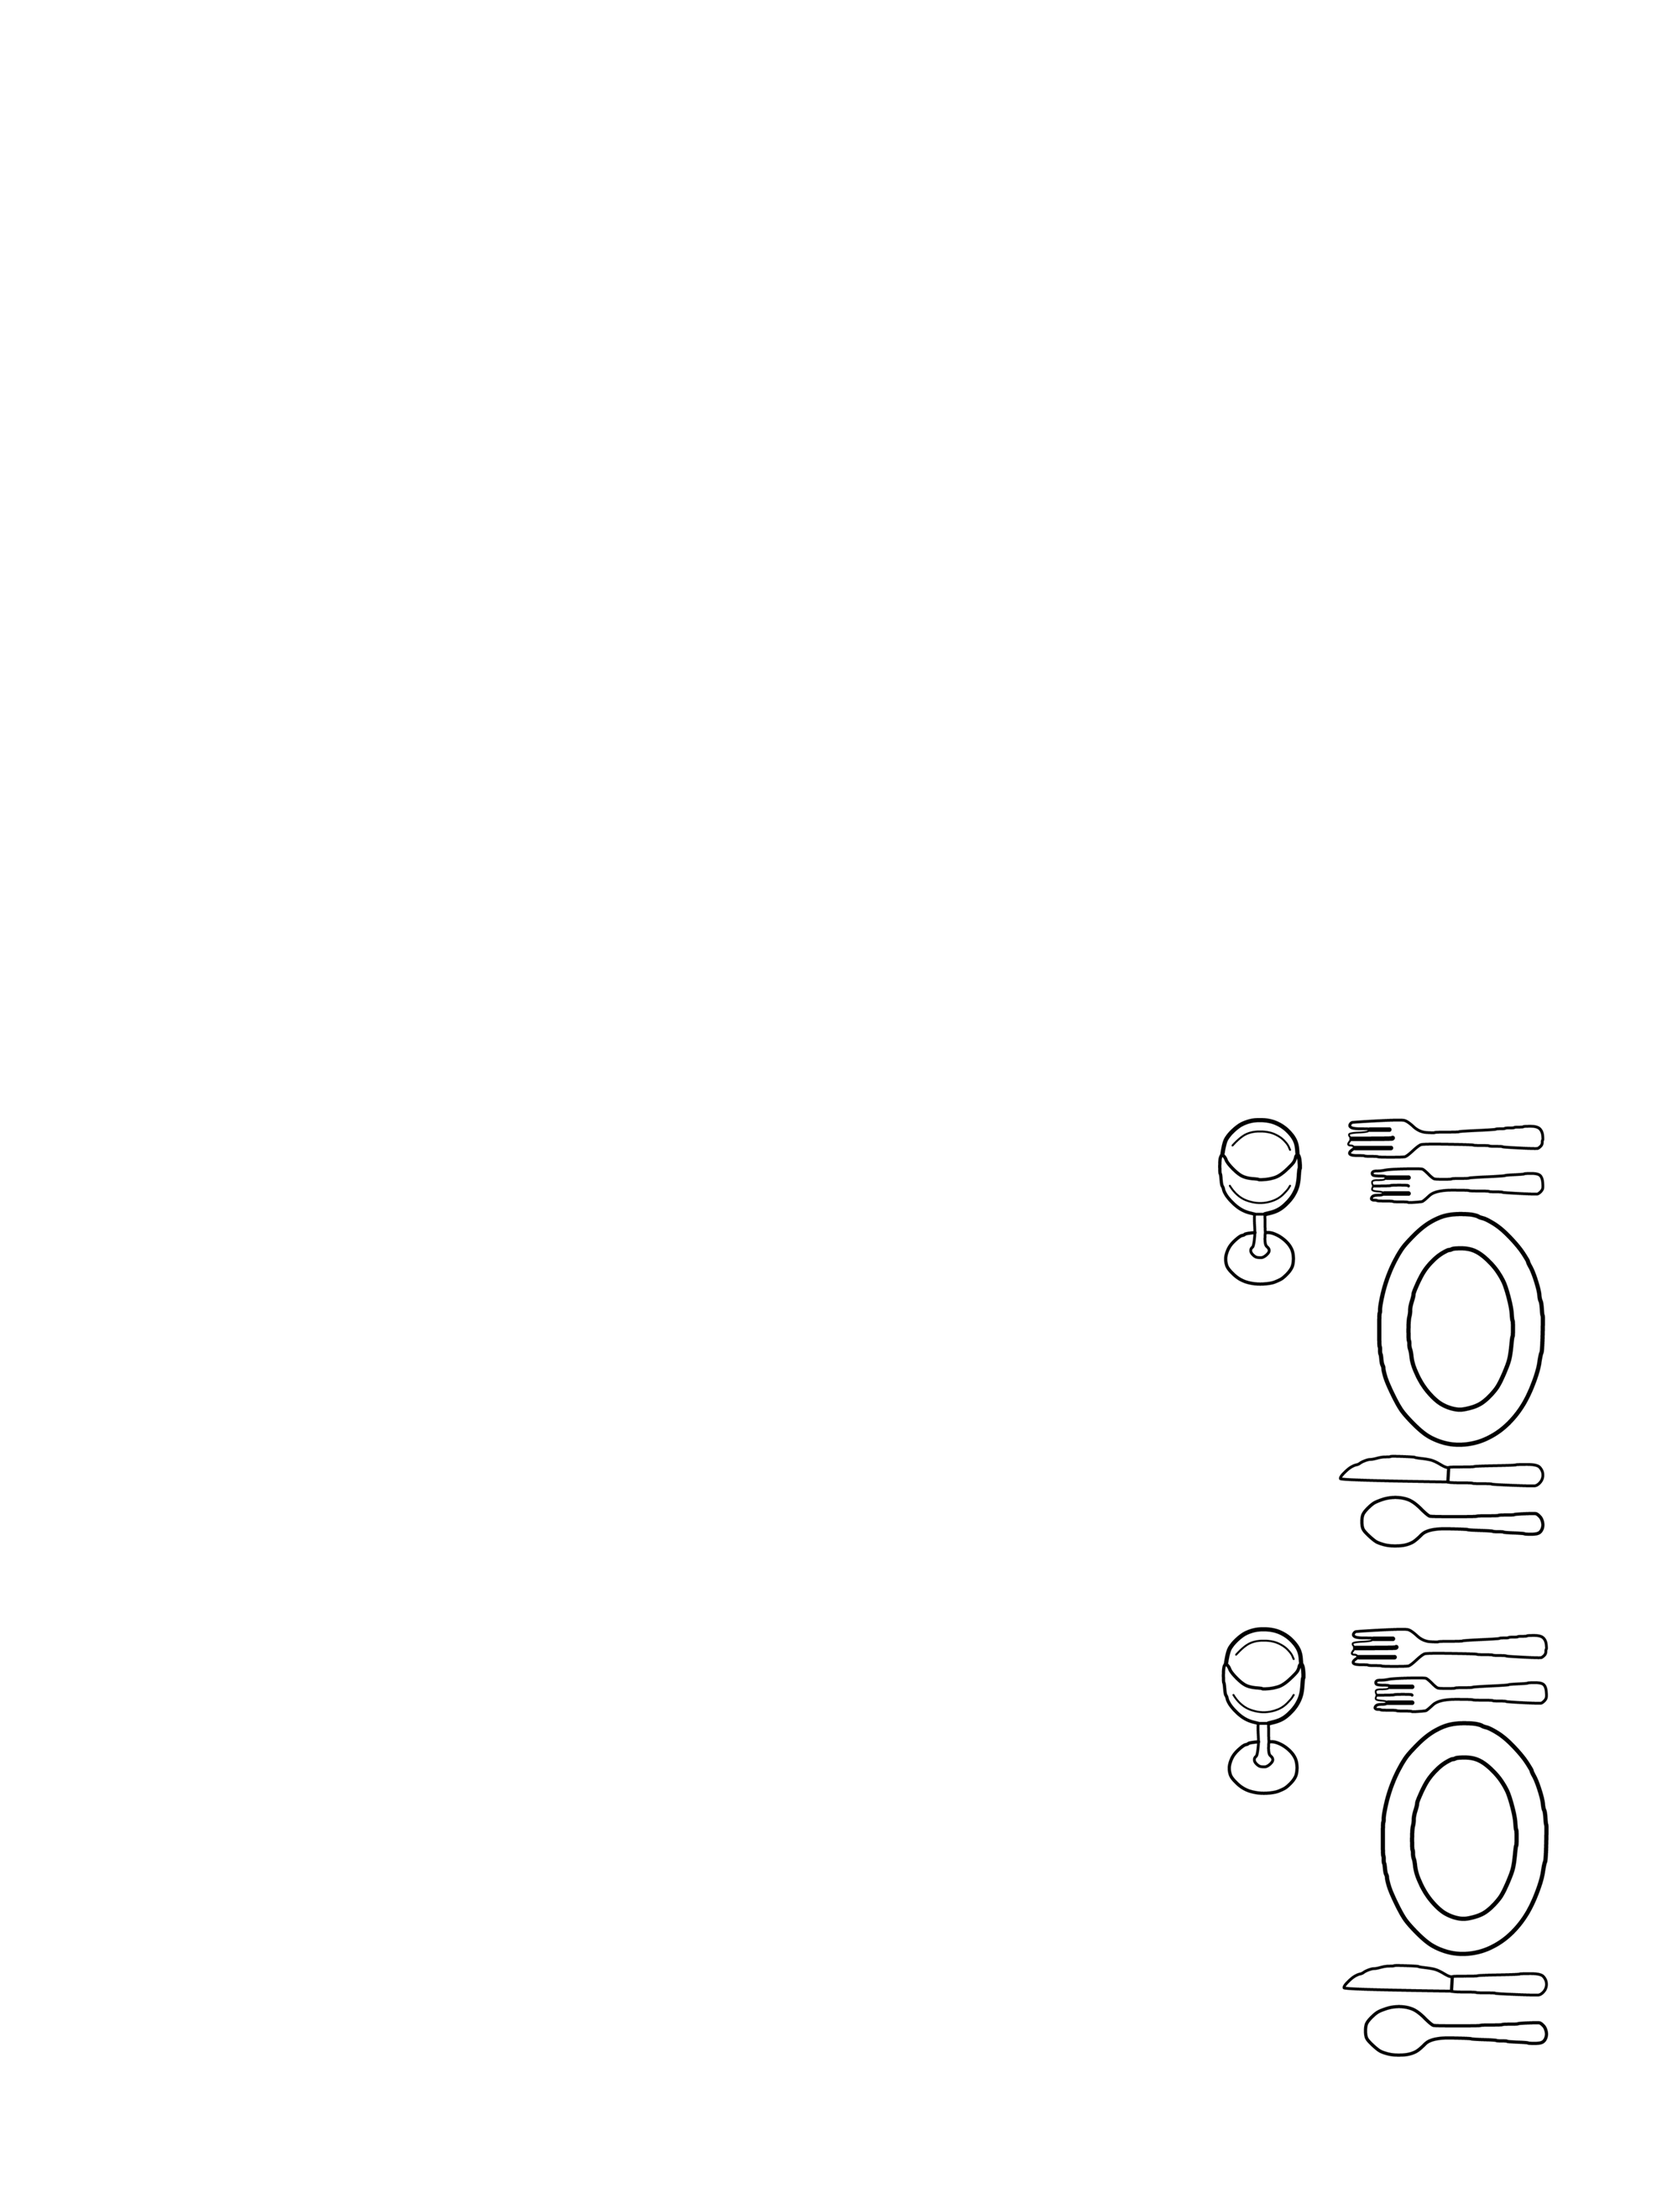
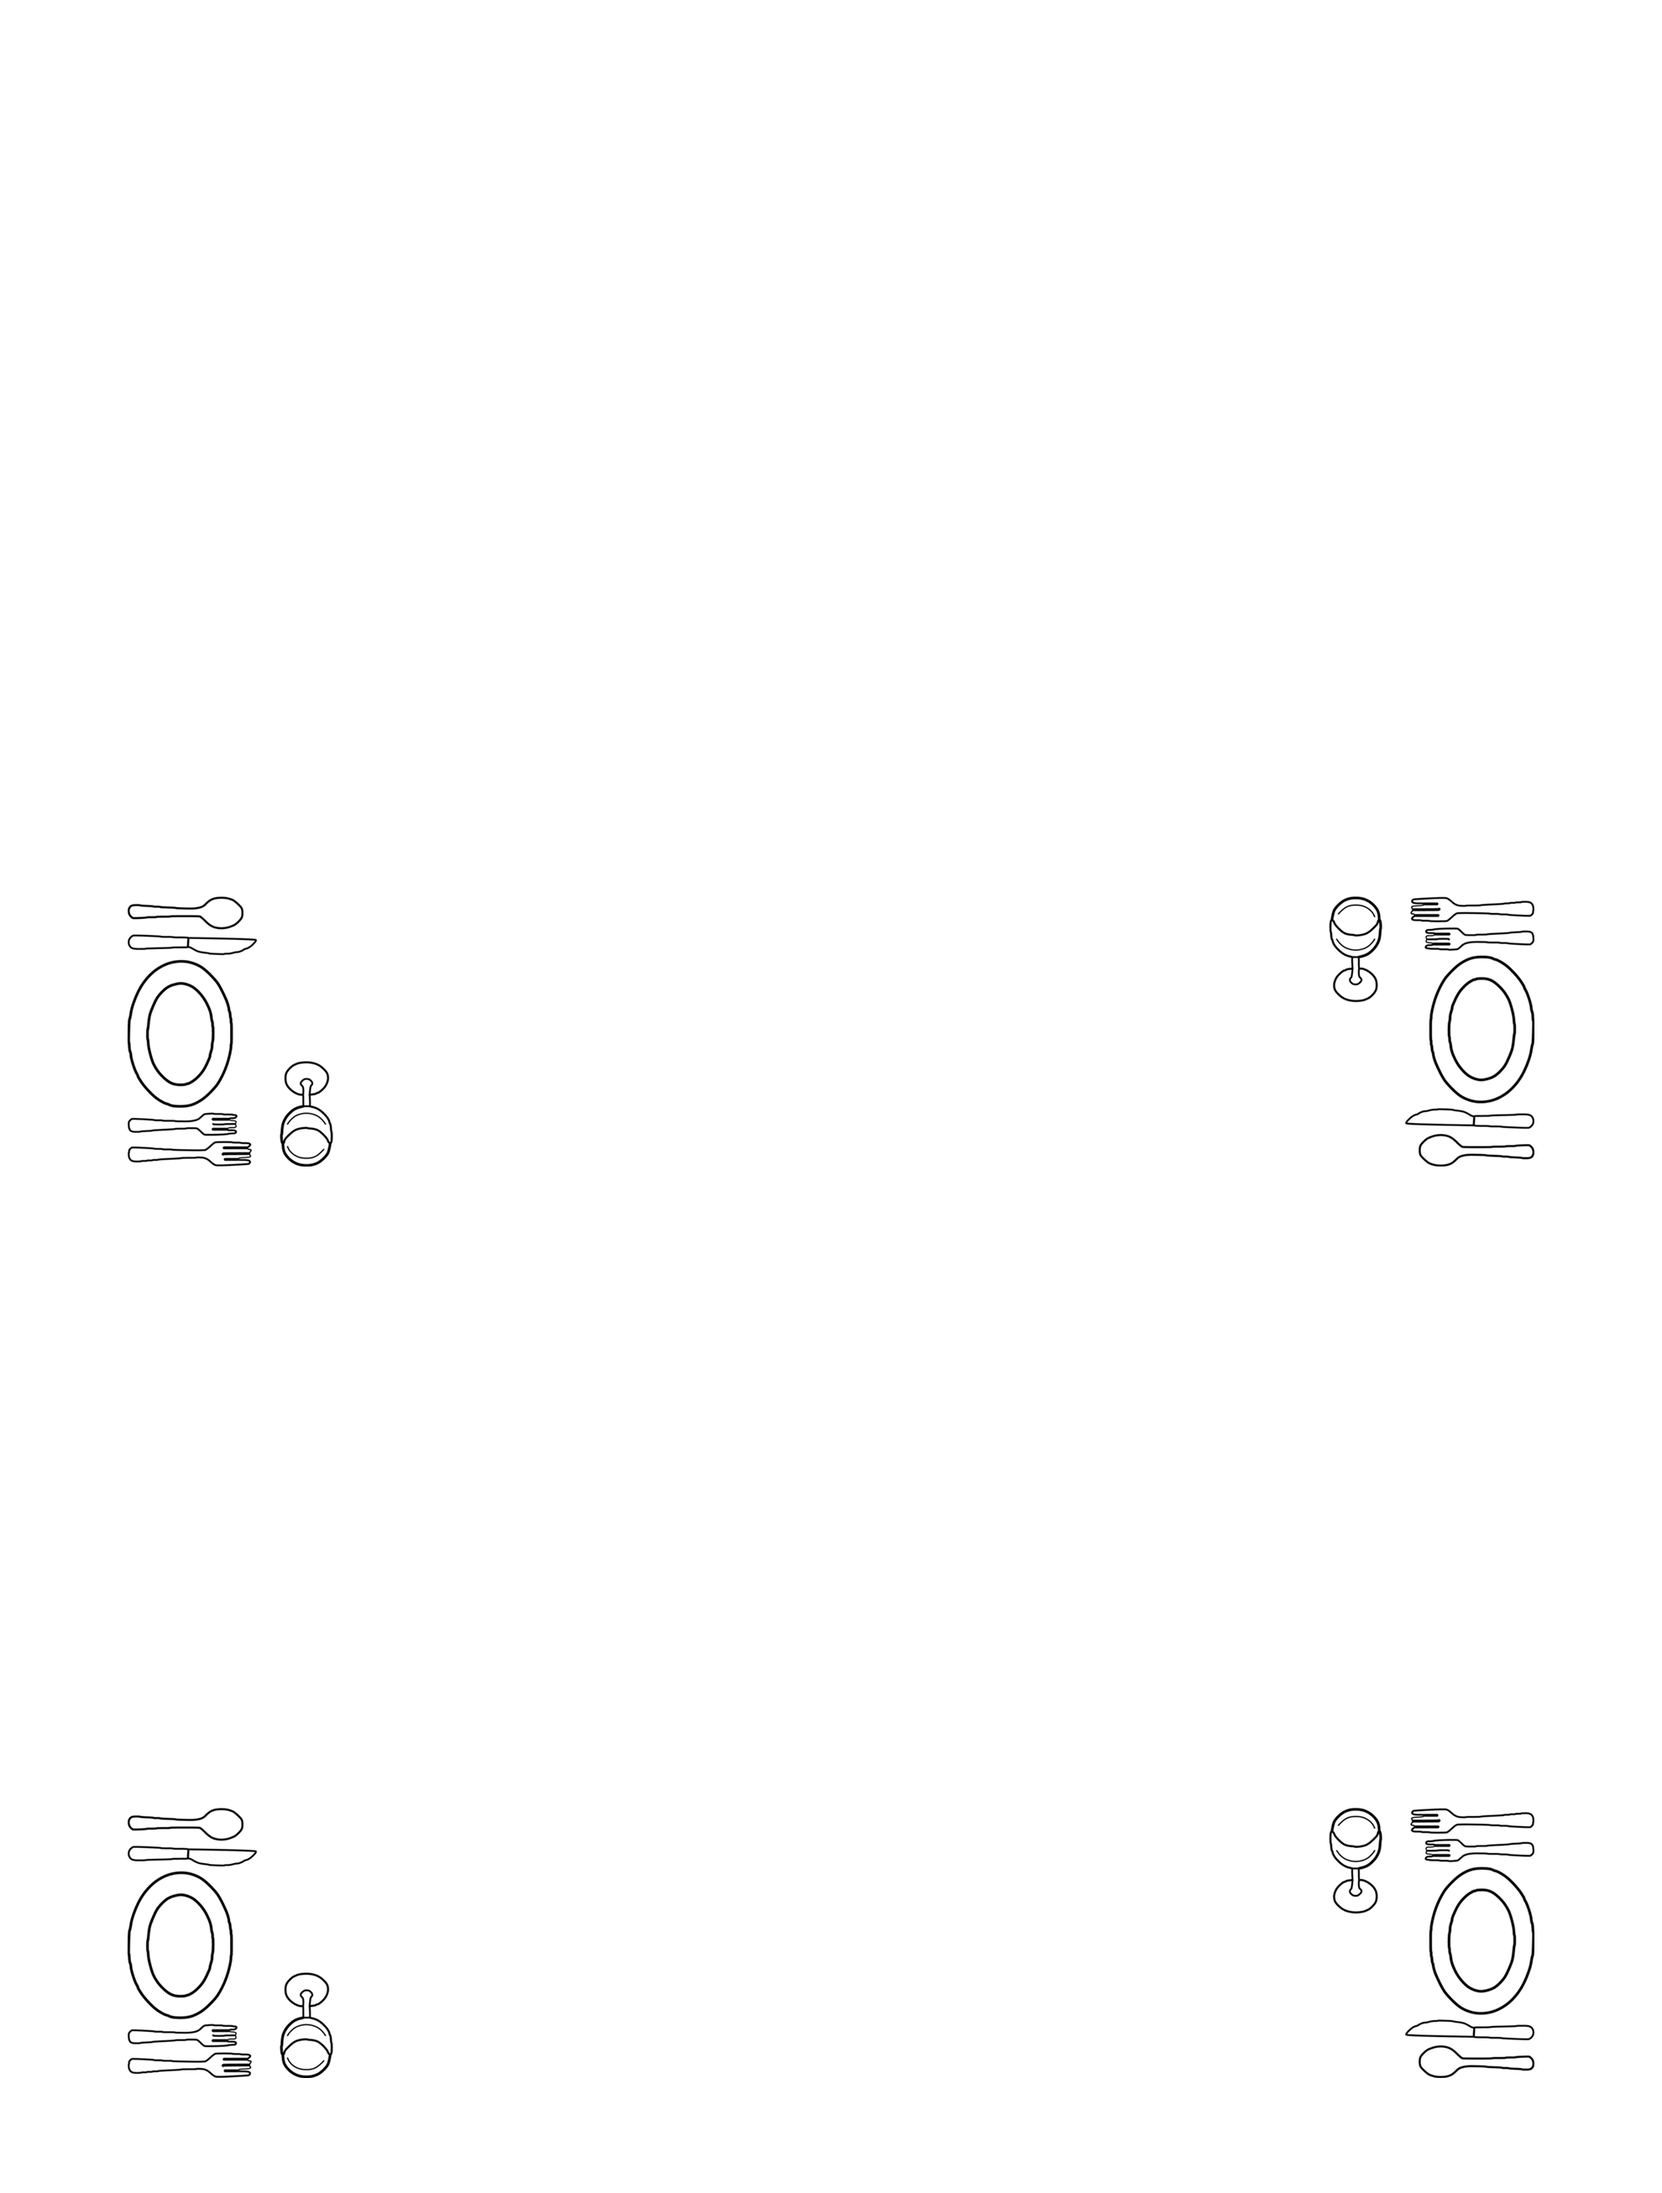
Image Updates

diff --git a/article-1/style.css b/article-1/style.css
@@ -145,7 +145,7 @@ article {
 
 section {
 	padding: var(--space-md);
-	margin-bottom: var(--space-lg);
+	margin-block-end: var(--space-lg);
 
 	background-color: var(--color-accent-2);
 	border: 4px double var(--color-fg);
@@ -153,7 +153,7 @@ section {
 }
 
 section:last-child{
-	margin-bottom: calc(var(--space-lg)*3);
+	margin-block-end: calc(var(--space-lg)*3);
 }
 
 h2 {
@@ -266,15 +266,15 @@ mark {
 	/* ARTICLE */
 
 	article {
-		max-inline-size: 80ch;
+		max-inline-size: 85ch;
 		padding: var(--space-lg);
+		margin: auto;
 		margin-top: -5rem;
-		transform: translateX(3rem);
 	}
 
 	section {
 		padding: var(--space-lg);
-		margin-bottom: var(--space-lg);
+		margin-block-end: var(--space-lg);
 	}
 
 	h1 {

diff --git a/article-2/style.css b/article-2/style.css
@@ -145,7 +145,7 @@ article {
 
 section {
 	padding: var(--space-md);
-	margin-bottom: var(--space-lg);
+	margin-block-end: var(--space-lg);
 
 	background-color: var(--color-accent-2);
 	border: 4px double var(--color-fg);
@@ -153,7 +153,7 @@ section {
 }
 
 section:last-child{
-	margin-bottom: calc(var(--space-lg)*3);
+	margin-block-end: calc(var(--space-lg)*3);
 }
 
 h2 {
@@ -269,13 +269,13 @@ mark {
 	article {
 		max-inline-size: 85ch;
 		padding: var(--space-lg);
-		margin-top: -5rem;
-		transform: translateX(3rem);
+		margin: auto;
+		margin-top: -4rem;
 	}
 
 	section {
 		padding: var(--space-lg);
-		margin-bottom: var(--space-lg);
+		margin-block-end: var(--space-lg);
 	}
 
 	h1 {

diff --git a/article-3/style.css b/article-3/style.css
@@ -144,7 +144,7 @@ article {
 
 section {
 	padding: var(--space-md);
-	margin-bottom: var(--space-lg);
+	margin-block-end: var(--space-lg);
 
 	background-color: var(--color-accent-2);
 	border: 4px double var(--color-fg);
@@ -152,7 +152,7 @@ section {
 }
 
 section:last-child{
-	margin-bottom: calc(var(--space-lg)*3);
+	margin-block-end: calc(var(--space-lg)*3);
 }
 
 h2 {
@@ -267,13 +267,13 @@ mark {
 	article {
 		max-inline-size: 85ch;
 		padding: var(--space-lg);
+		margin: auto;
 		margin-top: -5rem;
-		transform: translateX(3rem);
 	}
 
 	section {
 		padding: var(--space-lg);
-		margin-bottom: var(--space-lg);
+		margin-block-end: var(--space-lg);
 	}
 
 	h1 {
